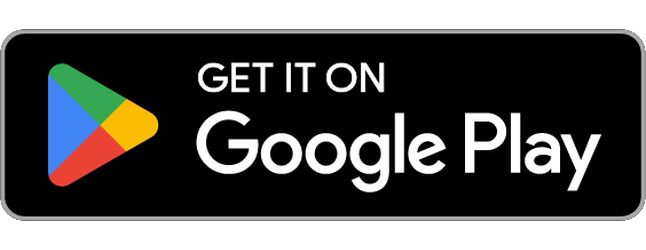
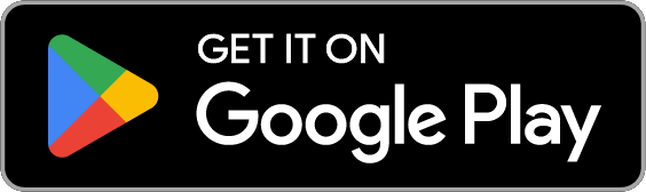
fix(D62): both store badges draw 40px tall with the same clear space

diff --git a/src/components/StoreBadges.tsx b/src/components/StoreBadges.tsx
@@ -1,8 +1,8 @@
 import { APP_STORE_URL, PLAY_STORE_URL } from "@/lib/storeLinks";
 import { useLocale, useT } from "@/i18n";
 
-// Apple's badge is 40px tall with a quarter-height clear space. Google's PNG
-// carries its own clear space, so it is drawn at 60px to match 40px of badge.
+// Both badges are drawn 40px tall with a quarter-height clear space, which
+// each store's guidelines ask for. The Google PNGs are cropped to the badge edge.
 export default function StoreBadges({
   className = "",
 }: {
@@ -37,13 +37,14 @@ export default function StoreBadges({
           target="_blank"
           rel="noopener noreferrer"
           aria-label={t.playStoreAriaLabel}
+          className="p-2.5"
         >
           <img
             src={`/images/store/google-play-${locale}.png`}
             alt={t.playStoreAlt}
-            width={155}
-            height={60}
-            className="h-[60px] w-auto"
+            width={135}
+            height={40}
+            className="h-10 w-auto"
             loading="lazy"
           />
         </a>
